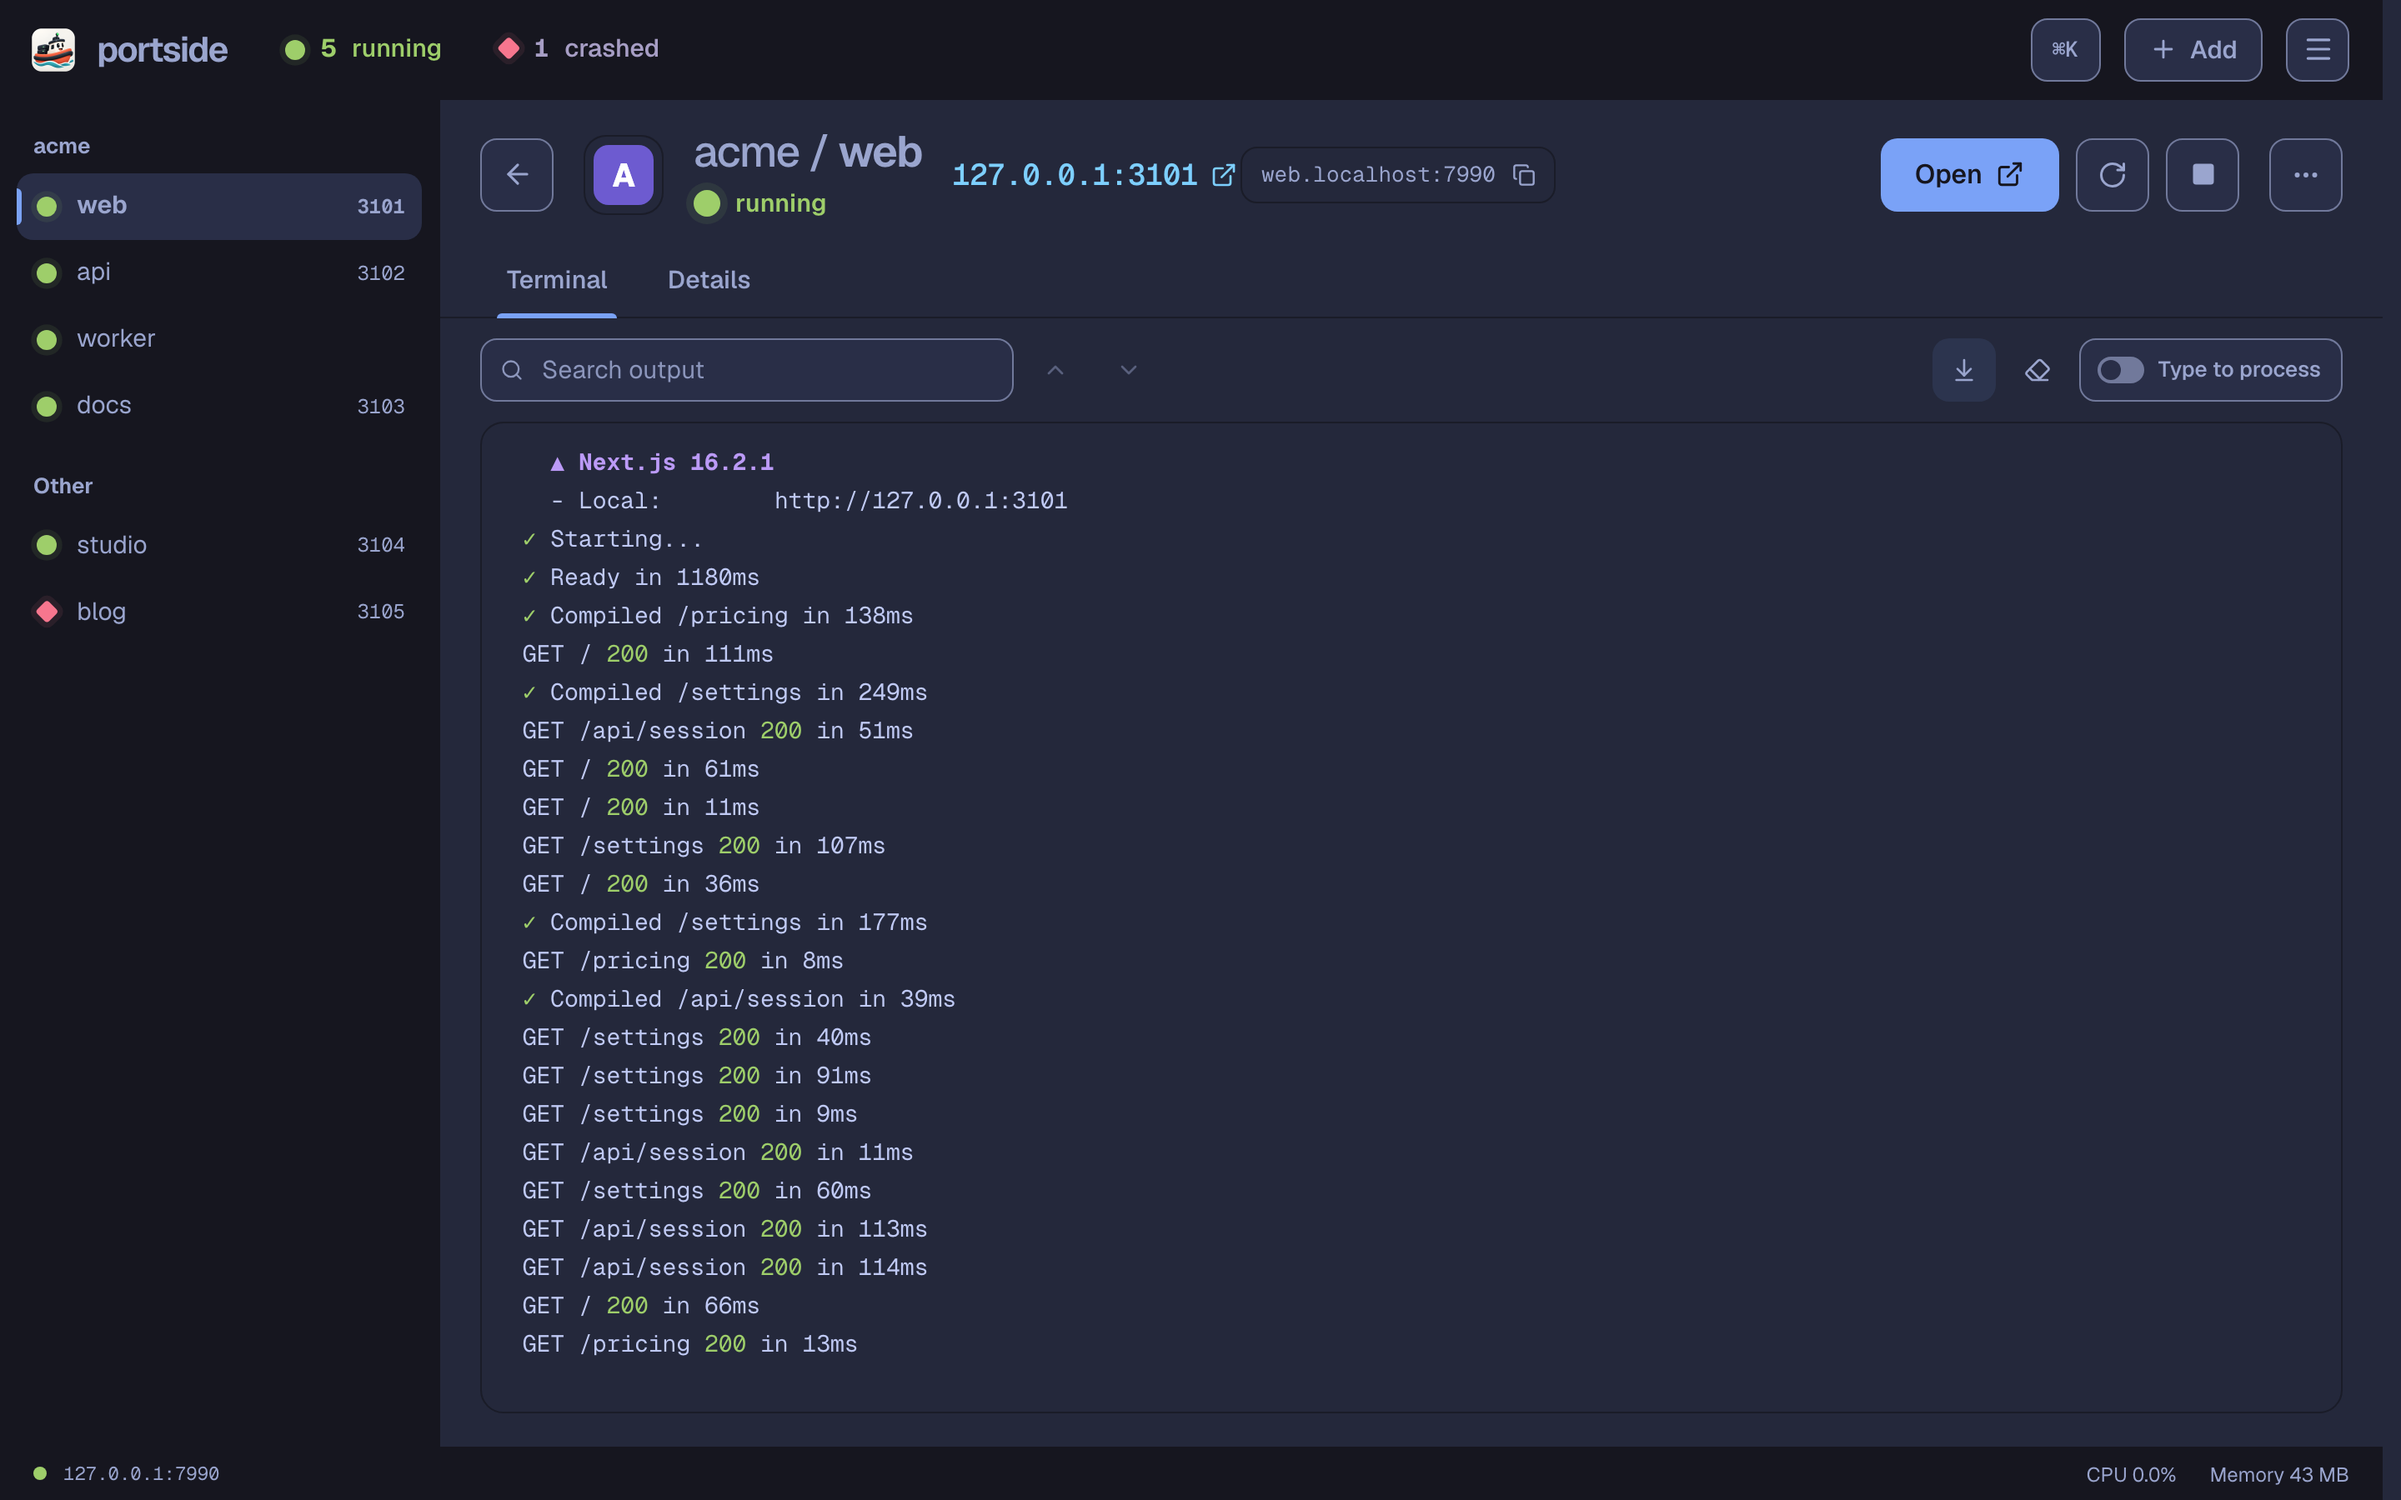
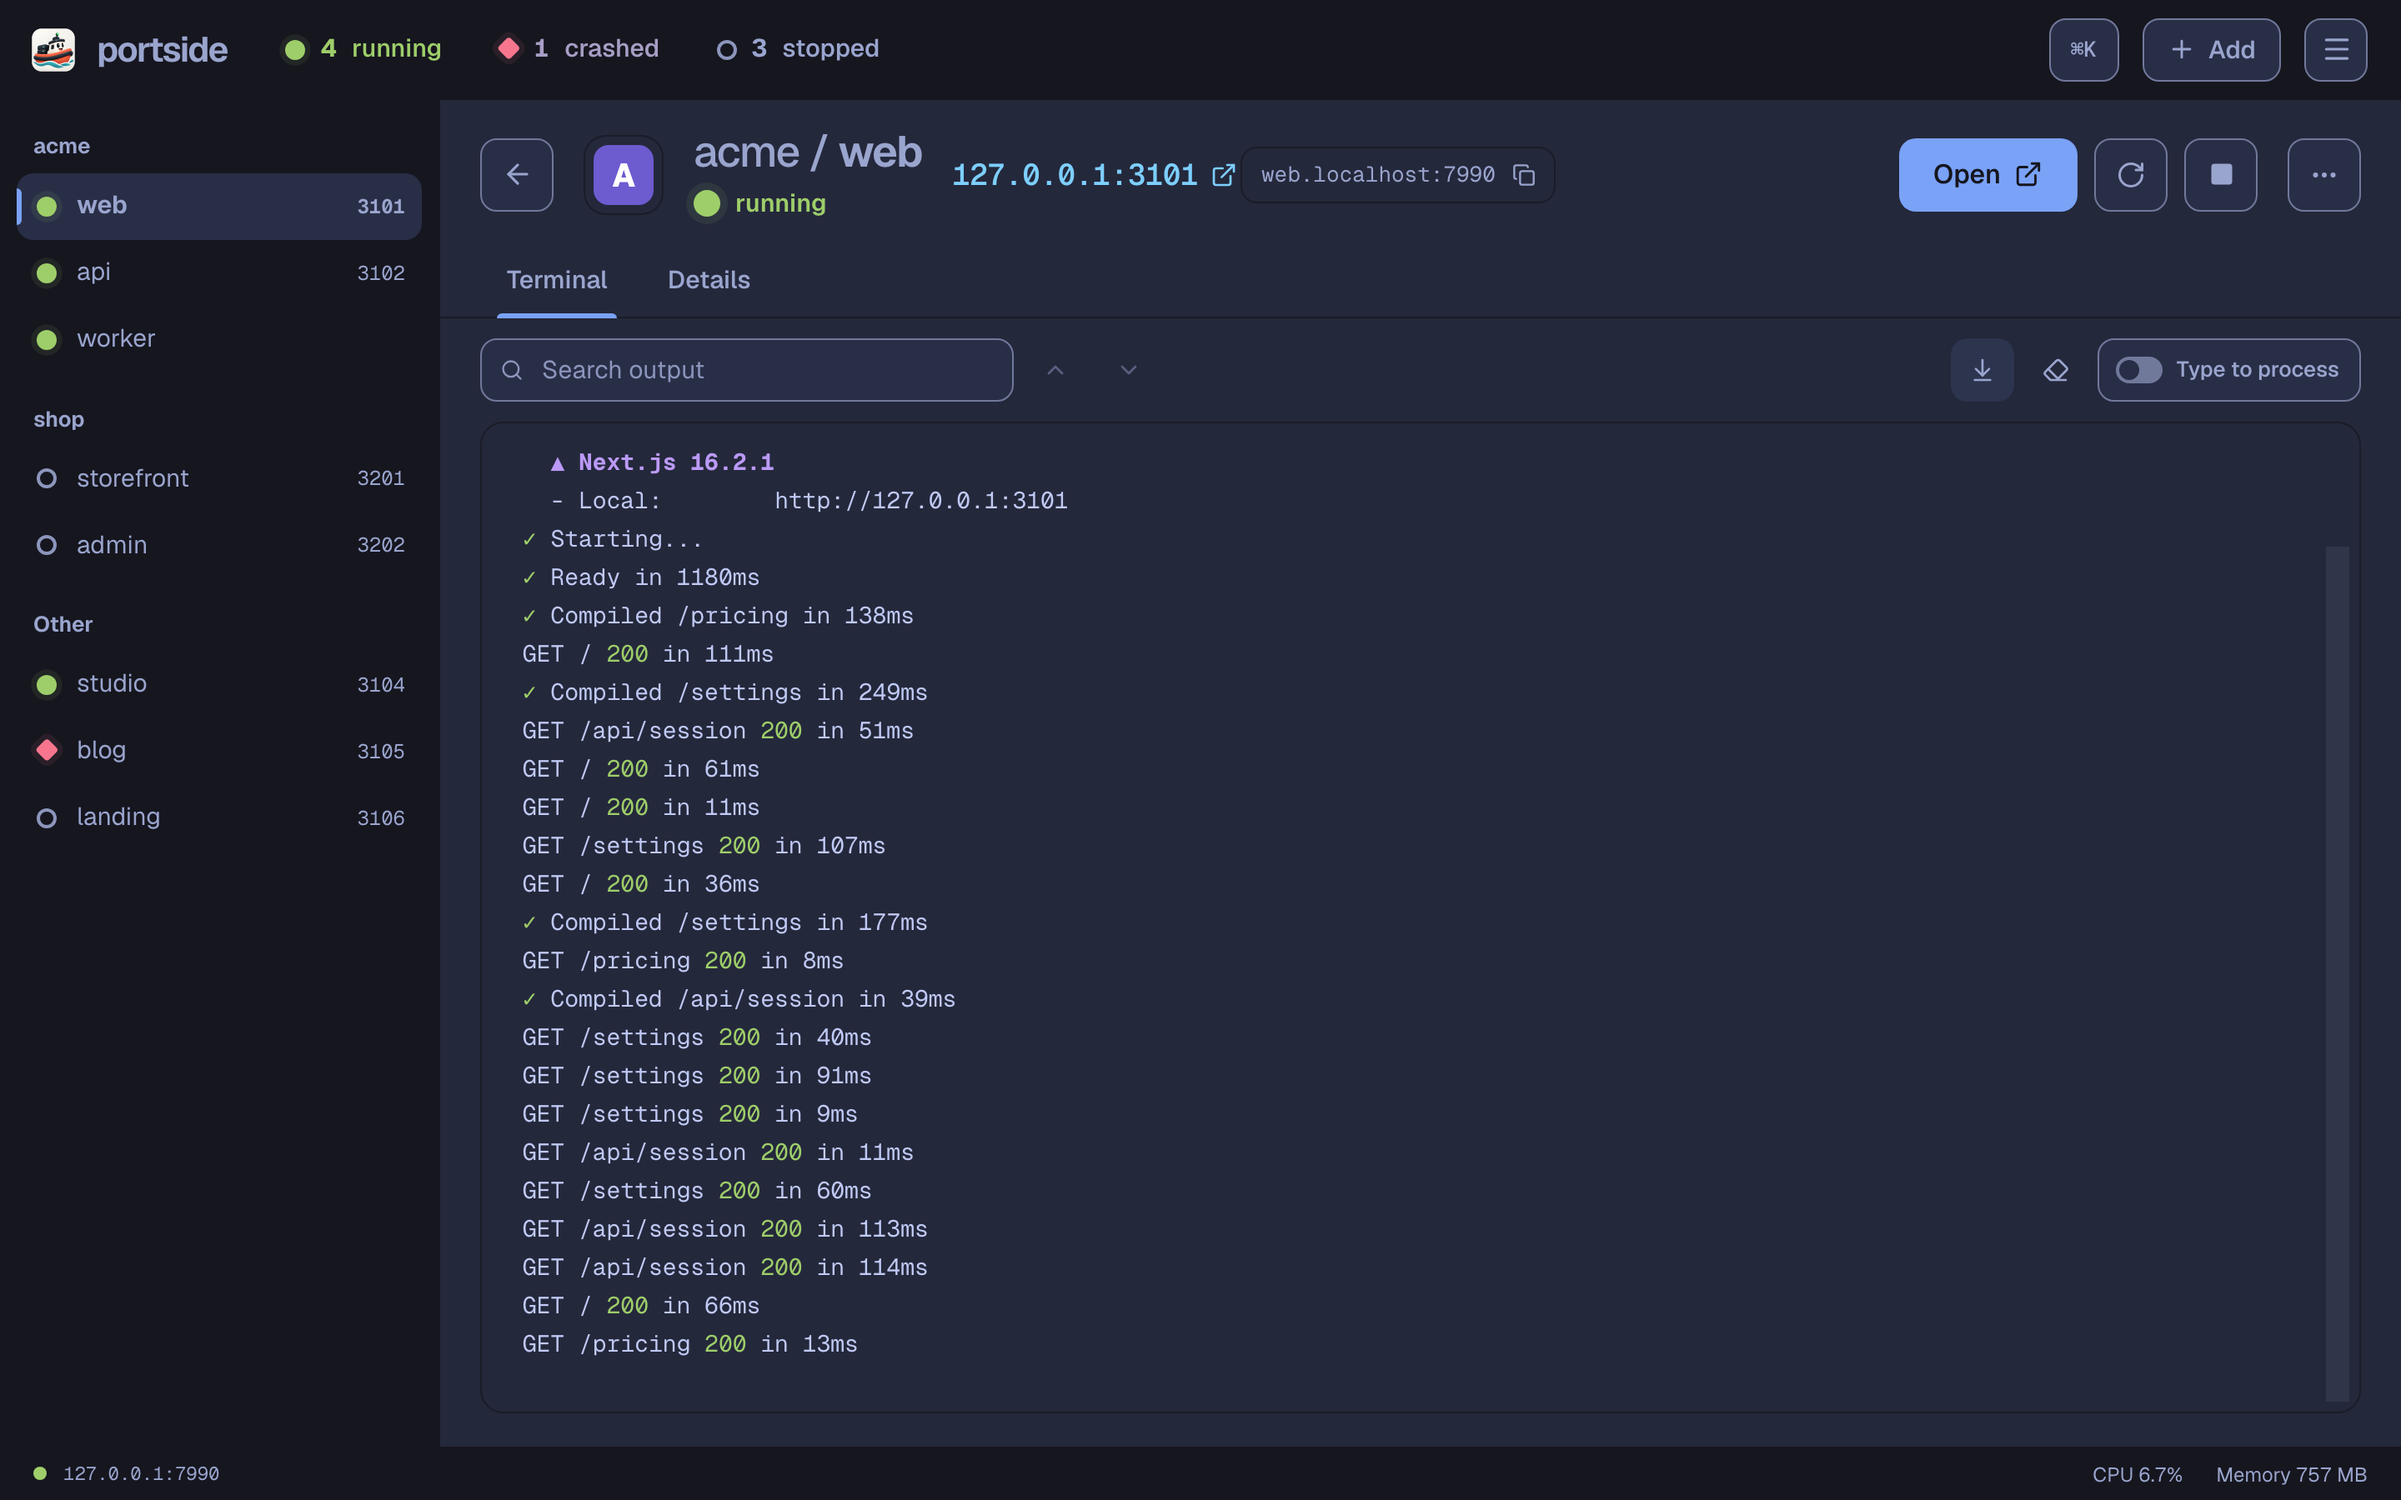
Fix the empty gutter at the right edge; richer screenshot demo
The dashboard no longer leaves an empty strip at the right edge, and the
screenshot demo is richer, with a list view.

diff --git a/web/src/styles/base.css b/web/src/styles/base.css
@@ -6,8 +6,9 @@
   box-sizing: border-box;
 }
 
+/* The document never scrolls: the app is a full-height shell whose panes
+   (.overview, the detail view) scroll and reserve their own scrollbar gutter. */
 html {
-  scrollbar-gutter: stable;
   height: 100%;
   -webkit-text-size-adjust: 100%;
 }

diff --git a/scripts/demo/server.py b/scripts/demo/server.py
@@ -1,5 +1,5 @@
 """Fake dev server for screenshots and demos: prints framework-like logs and
-optionally serves HTTP. Usage: server.py --kind next|vite|api|worker|docs --name NAME [--port N] [--crash-after S]"""
+optionally serves HTTP. Usage: server.py --kind next|vite|api|worker|docs --name NAME [--port N] [--crash-after S] [--mem MB]"""
 import argparse, http.server, random, socketserver, sys, threading, time
 
 ap = argparse.ArgumentParser()
@@ -7,11 +7,25 @@ ap.add_argument("--kind", default="api")
 ap.add_argument("--name", default="app")
 ap.add_argument("--port", type=int, default=0)
 ap.add_argument("--crash-after", type=float, default=0)
+ap.add_argument("--mem", type=int, default=0, help="resident memory to hold, so usage looks like a real dev server")
 a = ap.parse_args()
 
 G, Y, R, D, C, M, B, X = "\033[32m", "\033[33m", "\033[31m", "\033[2m", "\033[36m", "\033[35m", "\033[1m", "\033[0m"
 random.seed(a.name)
 say = lambda s: print(s, flush=True)
+
+# Touch every page so the memory counts as resident.
+ballast = bytearray(a.mem * 1024 * 1024)
+for i in range(0, len(ballast), 4096):
+    ballast[i] = 1
+
+
+def work(ms):
+    """Burn a little CPU per request so the CPU sparkline is not flat."""
+    end = time.perf_counter() + ms / 1000
+    while time.perf_counter() < end:
+        pass
+
 
 if a.kind == "next":
     say(f"   {M}{B}▲ Next.js 16.2.1{X}")
@@ -54,14 +68,20 @@ routes = {
     "docs": ["/guides/getting-started/", "/reference/cli/", "/"],
     "worker": ["welcome", "receipt", "password-reset"],
 }[a.kind if a.kind in ("next", "vite", "api", "docs") else "worker"]
+routes = {
+    "blog": ["/", "/posts/shipping-v2/", "/posts/postgres-tips/", "/tags/go/", "/feed.xml"],
+    "storefront": ["/", "/products/", "/cart", "/checkout"],
+}.get(a.name, routes)
 start = time.time()
 while True:
     time.sleep(random.uniform(0.6, 1.6))
     if a.crash_after and time.time() - start > a.crash_after:
-        say(f"{R}Error{X}: connect ECONNREFUSED 127.0.0.1:6379")
-        say(f"    at TCPConnectWrap.afterConnect [as oncomplete] (node:net:1636:16)")
+        say(f"{R}Error{X}: Missing environment variable CONTENT_API_TOKEN")
+        say(f"    at loadPosts (src/lib/content.ts:14:11)")
+        say(f"    at async Page (src/app/page.tsx:8:17)")
         sys.exit(1)
     r, path, ms = random.random(), random.choice(routes), random.randint(4, 120)
+    work(ms / 4)
     t = time.strftime("%H:%M:%S")
     if a.kind == "next":
         say(f" GET {path} {G if r > 0.08 else Y}{200 if r > 0.08 else 404}{X} in {ms}ms" if r > 0.15 else f" {G}✓{X} Compiled {path} in {ms * 3}ms")

diff --git a/README.md b/README.md
@@ -7,7 +7,7 @@
 <p align="center">Keep your local dev servers running, in one place.</p>
 
 <p align="center">
-  <img src="design/screenshots/overview-dark.png" width="900" alt="Portside dashboard in Rosé Pine: one card per server with status, address, CPU and memory, and a live preview of its output">
+  <img src="design/screenshots/overview-dark.png" width="900" alt="Portside dashboard in Rosé Pine: server cards grouped by project, with running, stopped and crashed servers">
 </p>
 
 Portside is a small daemon, a CLI and a web dashboard for the dev servers you run every day: Next.js, Vite, Python APIs, `docker compose` stacks, workers. It starts them in real pseudo-terminals, keeps their ports stable, shows status, logs and resource use on one calm page, and lets coding agents reuse the same servers instead of launching duplicates.
@@ -36,6 +36,9 @@ On macOS it is a menu bar app; on Linux the same dashboard runs in the browser. 
   <tr>
     <td><img src="design/screenshots/detail.png" alt="A server's live terminal with every server one click away in the side rail (Tokyo Night)"></td>
     <td><img src="design/screenshots/crashed.png" alt="A crashed server with its exit code and the error that caused it (Catppuccin Latte)"></td>
+  </tr>
+  <tr>
+    <td colspan="2"><img src="design/screenshots/list.png" alt="The list layout with every server grouped by project (Everforest Light)"></td>
   </tr>
 </table>
 
